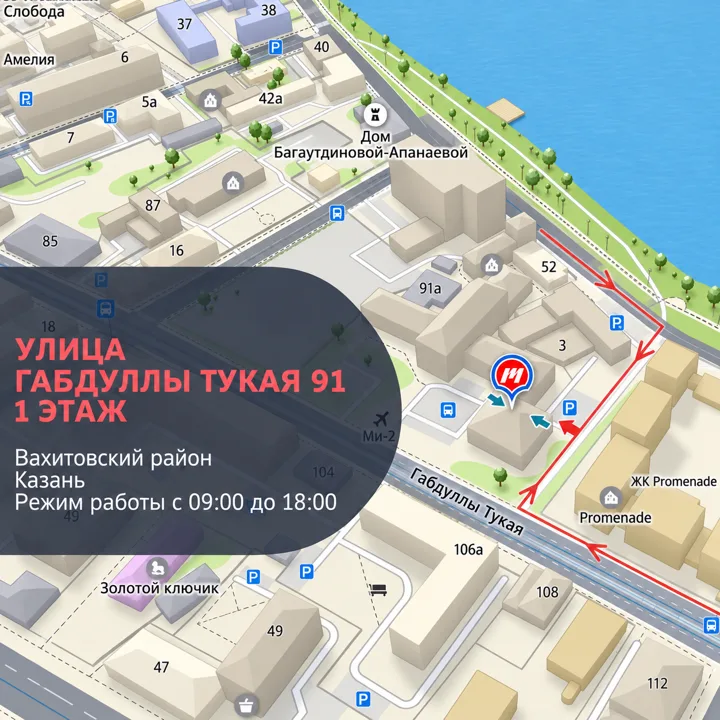
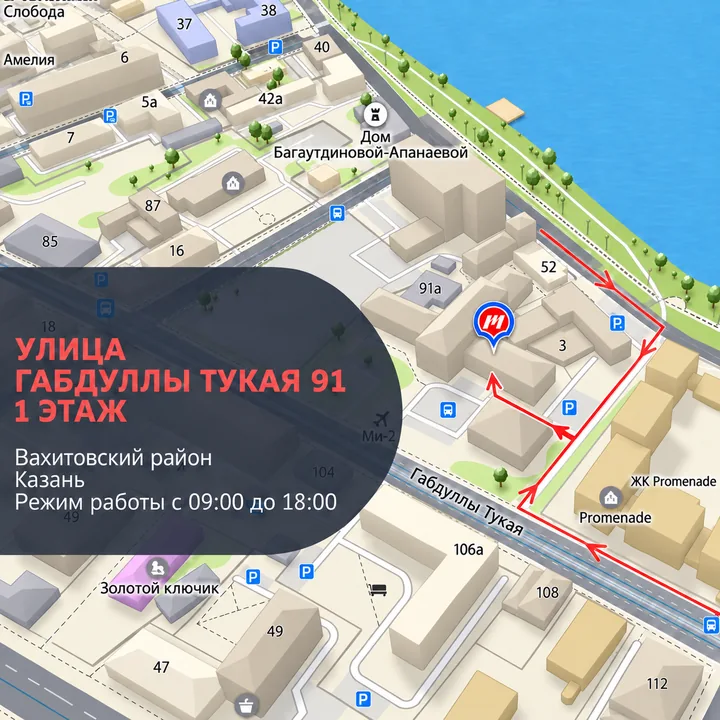
Схема проезда: новый маршрут от дороги ко входу
Исходник scheme.png (1254×1254, 2 МБ) лежит в репозитории, в архив
темы не идёт; на сайт — собранные из него scheme.webp (162 КБ) и
scheme-720.webp. У картинки версия по дате файла, чтобы браузер не
показывал старую схему из кэша.

diff --git a/template-parts/home/contacts.php b/template-parts/home/contacts.php
@@ -133,7 +133,8 @@ $scheme_alt    = 'Схема проезда к PROMIX: улица Габдулл
                         );
                         ?>
                     <?php else : ?>
-                        <img class="scheme__img" src="<?php echo esc_url( get_theme_file_uri( 'assets/img/scheme.webp' ) ); ?>"
+                        <?php // Версия по дате файла: схему заменили — браузер не покажет старую из кэша. ?>
+                        <img class="scheme__img" src="<?php echo esc_url( add_query_arg( 'ver', promix_asset_version( 'assets/img/scheme.webp' ), get_theme_file_uri( 'assets/img/scheme.webp' ) ) ); ?>"
                              alt="<?php echo esc_attr( $scheme_alt ); ?>" loading="lazy" width="1254" height="1254">
                     <?php endif; ?>
                 </div>
